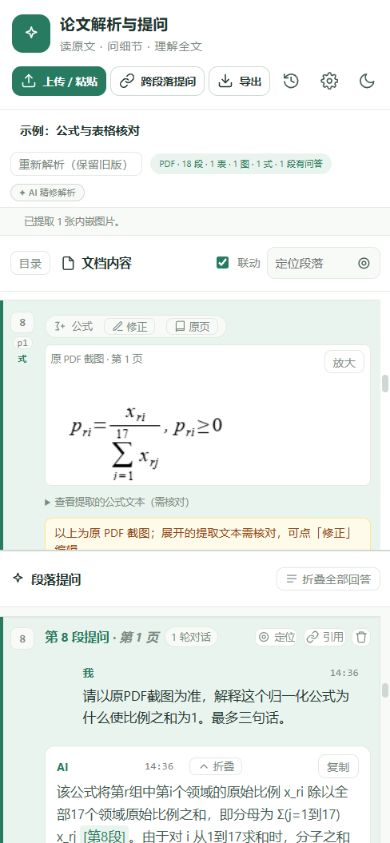
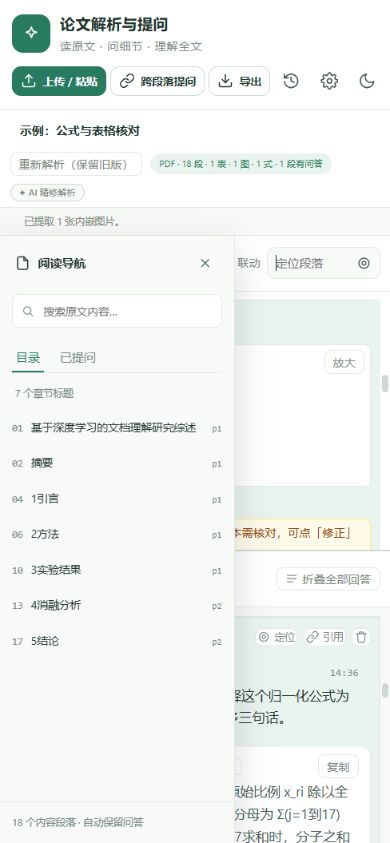
Reserve PDF preview dimensions to keep paragraph navigation stable

diff --git a/web/src/components/PdfSnippet.jsx b/web/src/components/PdfSnippet.jsx
@@ -10,18 +10,19 @@ async function getPdf(url) {
 export default function PdfSnippet({ url, page, source, onZoom }) {
   const host = useRef(null), canvas = useRef(null);
   const [visible, setVisible] = useState(false), [status, setStatus] = useState('loading');
+  const scale = 1.7;
+  const x = Math.max(0, source.x0-12), y = Math.max(0, source.pageHeight-source.y1-8);
+  const w = Math.min(source.pageWidth-x, source.x1-x+14), h = Math.min(source.pageHeight-y, source.y1-source.y0+18);
   useEffect(() => { const observer = new IntersectionObserver(([entry]) => { if (entry.isIntersecting) { setVisible(true); observer.disconnect(); } }, { rootMargin:'150px' }); observer.observe(host.current); return () => observer.disconnect(); }, []);
   useEffect(() => {
     if (!visible) return;
     let alive = true, task;
+    setStatus('loading');
     (async () => {
       try {
         const doc = await getPdf(url), original = await doc.getPage(page);
         if (!alive || !canvas.current) return;
-        const scale = 1.7;
         const viewport = original.getViewport({ scale });
-        const x = Math.max(0, source.x0-12), y = Math.max(0, source.pageHeight-source.y1-8);
-        const w = Math.min(source.pageWidth-x, source.x1-x+14), h = Math.min(source.pageHeight-y, source.y1-source.y0+18);
         const c = canvas.current; c.width = Math.ceil(w*scale); c.height = Math.ceil(h*scale);
         task = original.render({ canvasContext:c.getContext('2d'), viewport, transform:[1,0,0,1,-x*scale,-y*scale] });
         await task.promise; if (alive) setStatus('ready');
@@ -29,5 +30,5 @@ export default function PdfSnippet({ url, page, source, onZoom }) {
     })();
     return () => { alive = false; task?.cancel(); };
   }, [visible, url, page, source]);
-  return <div className="pdf-snippet" ref={host}><div className="snippet-label"><span>原 PDF 截图 · 第 {page} 页</span>{status === 'ready' ? <button className="mini" onClick={() => onZoom?.(canvas.current.toDataURL(), '第 '+page+' 页原始内容')}>放大</button> : null}</div>{status === 'loading' ? <span className="muted small">正在载入原文…</span> : status === 'error' ? <span className="muted small">原文预览暂不可用，请点击「原页」核对。</span> : null}<canvas ref={canvas} aria-label={'第 '+page+' 页原始公式或表格'} style={{ display:status === 'ready' ? 'block' : 'none' }} /></div>;
+  return <div className="pdf-snippet" ref={host}><div className="snippet-label"><span>原 PDF 截图 · 第 {page} 页</span>{status === 'ready' ? <button className="mini" onClick={() => onZoom?.(canvas.current.toDataURL(), '第 '+page+' 页原始内容')}>放大</button> : null}</div><div className="snippet-surface"><canvas ref={canvas} width={Math.ceil(w*scale)} height={Math.ceil(h*scale)} data-ready={status==='ready' ? 'true' : 'false'} aria-label={'第 '+page+' 页原始公式或表格'} style={{ display:'block', visibility:status === 'ready' ? 'visible' : 'hidden' }} />{status !== 'ready' ? <span className="snippet-loading muted small">{status==='loading' ? '正在载入原文…' : '原文预览暂不可用，请点击「原页」核对。'}</span> : null}</div></div>;
 }

diff --git a/web/src/reading.css b/web/src/reading.css
@@ -108,7 +108,9 @@ button:focus-visible,a:focus-visible { outline:2px solid var(--accent); outline-
 .home-steps i { color:var(--line-strong); font-style:normal; }
 .pdf-snippet { min-height:45px; background:var(--panel); border-radius:6px; padding:5px; border:1px solid var(--line); }
 .pdf-snippet canvas { max-width:100%; height:auto; display:block; }
-.snippet-label { color:var(--muted); font-size:10px; display:flex; justify-content:space-between; margin-bottom:4px; }
+.snippet-label { color:var(--muted); font-size:10px; display:flex; justify-content:space-between; align-items:center; margin-bottom:4px; height:24px; min-height:24px; }
+.snippet-surface { position:relative; }
+.snippet-loading { position:absolute; left:6px; top:6px; }
 @media (max-width:1200px) { .reading-nav { flex-basis:185px; } .landing-hero { gap:28px; } .hero-copy h2 { font-size:40px; } .toolbar { padding:14px 18px; } .toolbar-actions { gap:6px; } .budget-chip { display:none; } }
 @media (max-width:980px) { .reading-nav { position:absolute; inset:0 auto 0 0; z-index:25; width:235px; box-shadow:var(--shadow-lg); } .panes { flex-direction:row; } .toolbar-actions { flex-wrap:wrap; margin-left:0; } .new-landing { padding:32px 25px; } .landing-hero { grid-template-columns:1fr; } .hero-copy h2 { font-size:40px; } .reading-preview { transform:none; } .home-bottom { grid-template-columns:1fr; gap:25px; } .connection-card { border-left:0; padding:16px; border:1px solid var(--line); border-radius:10px; } .home-steps { flex-wrap:wrap; gap:12px; } .pane-head .pane-sub { display:none; } }
 @media (max-width:660px) { .panes { flex-direction:column; } .toolbar { min-height:0; padding:12px; gap:9px; } .brand-text h1 { font-size:15px; } .toolbar-actions .btn { padding:6px 8px; font-size:11px; } .toolbar-actions { gap:4px; } .document-strip { padding:6px 10px; } .doc-title { flex-basis:auto; } .doc-title .chip { font-size:9px; } .title-input { min-width:100px; font-size:12px; } .home-btn { display:none; } .new-landing { padding:28px 20px; } .hero-copy h2 { font-size:35px; } .hero-copy>p { font-size:12px; } .recent-docs { grid-template-columns:1fr; } .preview-row>div { padding:14px; } .pane-head { padding:7px 10px; min-height:39px; } .row { padding:10px; } .pane.left .row-measure { font-size:13px; } .row-gutter { flex-basis:25px; } .qa-head .mini { font-size:10px; padding:2px; } .suggestions { gap:4px; } .question-chip { font-size:10px; padding:2px 7px; } .pane-tools { gap:6px; } .pane.left { min-height:140px; } .pane.right { min-height:180px; } }

diff --git a/web/src/App.jsx b/web/src/App.jsx
@@ -507,7 +507,7 @@ export default function App() {
       const requestRevision = docRevision.current;
       const target = paragraphs.find((p) => p.id === paragraphId);
       const originalCanvas = target && leftInnerRef.current?.children[target.index]?.querySelector('.pdf-snippet canvas');
-      const sourceImage = originalCanvas?.style.display === 'block' ? originalCanvas.toDataURL('image/png') : undefined;
+      const sourceImage = originalCanvas?.dataset.ready === 'true' ? originalCanvas.toDataURL('image/png') : undefined;
       setPending((p) => ({
         ...p,
         [key]: { text: '', citedParagraphIds: citedParagraphIds || [], streaming: true },

diff --git a/web/src/components/BlockView.jsx b/web/src/components/BlockView.jsx
@@ -6,8 +6,9 @@ import { IconZoom, IconFormula, IconTable, IconImage, IconBook, IconEdit, IconCh
 /** 图片按原始像素等比缩放，避免小图被拉糊、大图溢出 */
 function imageStyle(im) {
   const w = Number(im.width);
-  if (Number.isFinite(w) && w > 0 && w < 520) {
-    return { width: `${w}px`, maxWidth: '100%' };
+  const h = Number(im.height);
+  if (Number.isFinite(w) && w > 0) {
+    return { width: `${w}px`, maxWidth: '100%', ...(Number.isFinite(h) && h>0 ? {aspectRatio:`${w} / ${h}`} : {}) };
   }
   return { maxWidth: '100%' };
 }
